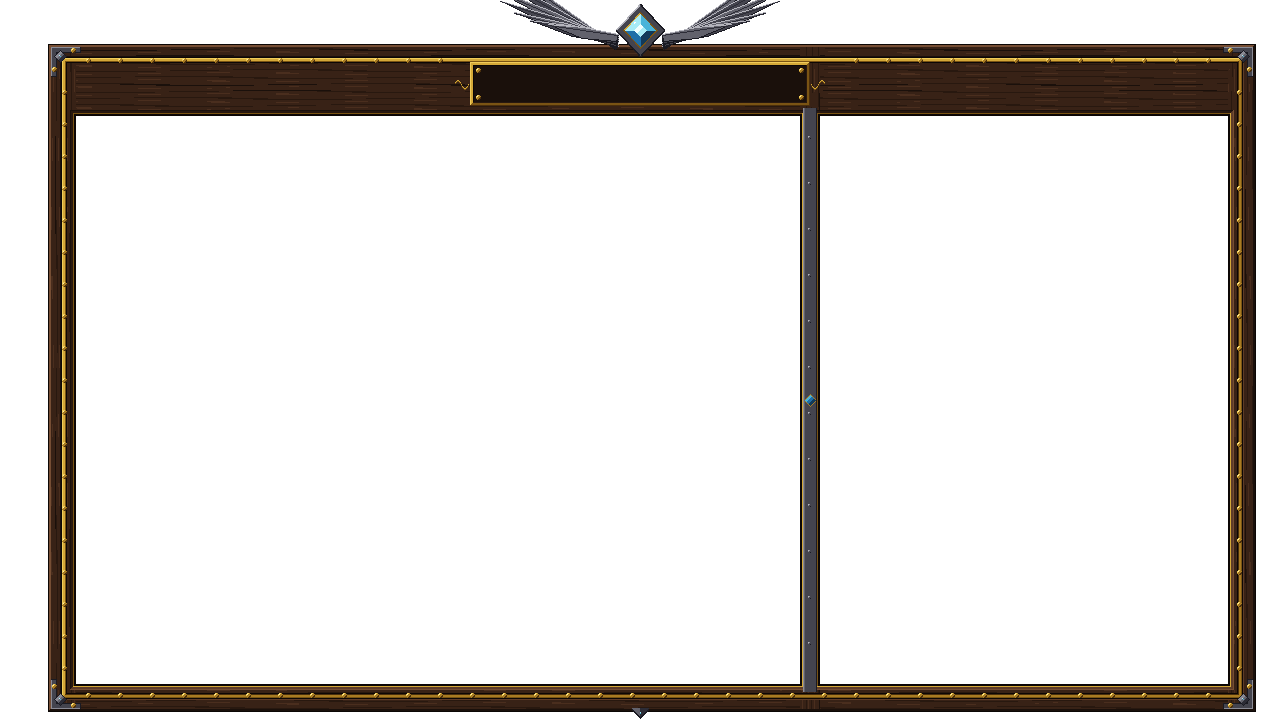
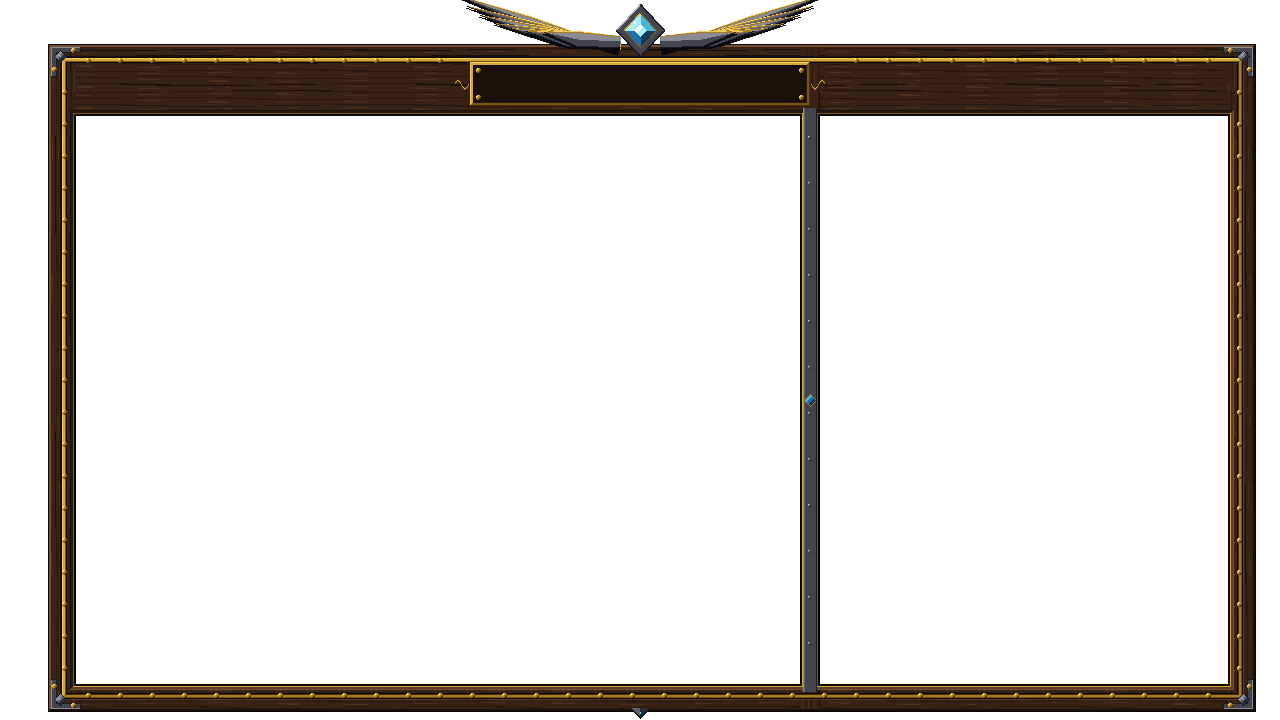
magic-art: grimoire v7 fixes (gold-edged feathered wings, readable locked nodes, legend)

Changed region(s): [[0.3438, 0.0, 0.6562, 0.0917]]

diff --git a/assets/magic-art/ui/Grimoire7.dc.html b/assets/magic-art/ui/Grimoire7.dc.html
@@ -66,7 +66,7 @@ body{margin:0}
 <img class="px ring" src="{{n.ring}}" alt="">
 <sc-if value="{{n.isOpen}}" hint-placeholder-val="{{ false }}"><img class="px ring glow" src="/_blob/a6eafa31c383f9d7d3e0c1fa86358705" alt=""></sc-if>
 <sc-if value="{{n.showIcon}}" hint-placeholder-val="{{ true }}"><img class="px ic" src="{{n.icon}}" alt="" style="{{n.iconStyle}}"></sc-if>
-<sc-if value="{{n.hidden}}" hint-placeholder-val="{{ false }}"><span style="position: absolute; left: 0; right: 0; top: 12px; text-align: center; font-size: 16px; color: #5a6278">?</span></sc-if>
+<sc-if value="{{n.hidden}}" hint-placeholder-val="{{ false }}"><span style="position: absolute; left: 0; right: 0; top: 12px; text-align: center; font-size: 16px; color: #8a96c0">?</span></sc-if>
 </span>
 <sc-if value="{{n.claim}}" hint-placeholder-val="{{ false }}"><span style="position: absolute; right: -6px; top: -6px; width: 20px; height: 20px; background: #b04a3a; color: #fff4e0; font-size: 16px; line-height: 20px; text-align: center; box-shadow: inset 0 0 0 2px #6a1c16, 0 0 0 2px #05060c">!</span></sc-if>
 <sc-if value="{{n.pinned}}" hint-placeholder-val="{{ false }}"><svg class="px" width="14" height="20" viewBox="0 0 7 10" aria-hidden="true" style="position: absolute; left: -2px; top: -12px"><rect x="1" y="0" width="5" height="4" fill="#49b4d9"></rect><rect x="2" y="1" width="2" height="1" fill="#f0ffff"></rect><rect x="3" y="4" width="1" height="6" fill="#a0a0aa"></rect></svg></sc-if>
@@ -79,6 +79,12 @@ body{margin:0}
 <span class="sh" style="{{n.labelStyle}}">{{n.label}}</span>
 </button>
 </sc-for>
+<div class="sh" style="position: absolute; left: 20px; bottom: 12px; display: flex; gap: 16px; font-size: 16px; line-height: 20px; color: #c8d0e0">
+<span style="display: flex; align-items: center; gap: 6px"><span style="width: 10px; height: 10px; background: #d4a838; box-shadow: 0 0 0 1px #05060c"></span>完了</span>
+<span style="display: flex; align-items: center; gap: 6px"><span style="width: 10px; height: 10px; background: #a8ecf6; box-shadow: 0 0 0 1px #05060c"></span>進められる</span>
+<span style="display: flex; align-items: center; gap: 6px"><span style="width: 10px; height: 10px; background: #b090e0; box-shadow: 0 0 0 1px #05060c"></span>寄り道</span>
+<span style="display: flex; align-items: center; gap: 6px"><span style="width: 10px; height: 10px; background: #6a6a76; box-shadow: 0 0 0 1px #05060c"></span>未解放</span>
+</div>
 </sc-if>
 <sc-if value="{{isBranch}}" hint-placeholder-val="{{ false }}">
 <div style="position: absolute; inset: 0; display: flex; flex-direction: column; align-items: center; justify-content: center; gap: 16px">
@@ -89,7 +95,7 @@ body{margin:0}
 </sc-if>
 </div>
 
-<img class="px" src="/_blob/119650d01a283dd485d01b93630d8410" alt="" width="1280" height="720" style="position: absolute; left: 0; top: 0; pointer-events: none">
+<img class="px" src="/_blob/718835e2b226b4a7cd261b3a0127ac51" alt="" width="1280" height="720" style="position: absolute; left: 0; top: 0; pointer-events: none">
 <div class="sh" style="position: absolute; left: 470px; top: 62px; width: 340px; height: 44px; display: flex; align-items: center; justify-content: center; gap: 14px; pointer-events: none">
 <span style="font-family: 'Jacquard 12', serif; font-size: 24px; line-height: 24px; color: #f0cc5a">Grimoire</span>
 <span style="font-size: 16px; color: #f4d870">魔術書</span>
@@ -167,7 +173,7 @@ book: B + '2c25c6074c9621ffcae05883a1f0f221', goggles: B + 'f59cd6e362f54112e1c7
 desk: B + 'a78cb39eac137046918875f67d0f331a', distiller: B + '1515a70cffd15352c0990cc1dbb012da', jar: B + 'b446653a8db7f64fdd66f4014f0b7ee6'
 };
 var H = { desk: B + '25e96ea39ca9477e064516353c8e34eb', distiller: B + 'c271094235f2920b7076173081b6957d', jar: B + '9b08ce57d64adede66326b2ed631dbf3' };
-var R = { done: B + '9ddba6f362b9c79722cdf78517ecfd8b', open: B + '332688f4d24600d143d97997c6c5f336', locked: B + '4bb7e29104edfd1ca793e8b4aee7c581', side: B + 'b499577d4442aa1b2ad1261ad5a524a6', goal: B + 'e0ce260706c6868edf716e93d6c26532', hidden: B + '0c42df9778ae7e57a1a96e2a9eec928e' };
+var R = { done: B + '9ddba6f362b9c79722cdf78517ecfd8b', open: B + '332688f4d24600d143d97997c6c5f336', locked: B + '6421f27f3a4158a20098184ee39aa2bc', side: B + 'b499577d4442aa1b2ad1261ad5a524a6', goal: B + 'e0ce260706c6868edf716e93d6c26532', hidden: B + 'b114c757642b137cf0c16c70550de07e' };
 var NEB = [B + '4b8bbd97cee550d4f7f55e0f9433d1db', B + 'f30528859d08f774426a1f16a5b7be56', B + '388b8ac78b04c647ad9530769d933b8e', B + 'e4d36a55d7ea7f8deebcd59f1a8151ae', B + 'a24b1d542e83b077362724bdaaf0864b', B + 'bb6d093377dd59a1f106803d1ee73588', B + '4afbf4858b5e8db406b3e0a2a8266932'];
 var N = [
 { id: 'n1', c: 0, r: 2, icon: I.book, big: false, title: '古い手帳', ch: '序章 観測', base: 'done', concept: '光る草に挟まっていた手帳。最初のページには一文だけ。「すべての物は、目に見えない性質（相）でできている」', goals: [['光る素材を拾う', 1]], unlocks: [['開く', '魔術書']], reward: '' },
@@ -184,7 +190,7 @@ var N = [
 { id: 'n12', c: 7, r: 2, icon: I.scroll, big: false, goal: true, title: '帰還の巻物', ch: '終章 最初の儀式', base: '', concept: '幹のゴール。遠征先から、魔術で帰ってくる。ここまで来ると専門の枝の封が解ける。', goals: [['小さな祭壇で帰還の巻物を作る', 0]], unlocks: [['開く', '専門の枝すべて']], reward: '' }
 ];
 var E = [['n1', 'n2'], ['n1', 'n3'], ['n2', 'n4'], ['n3', 'n4'], ['n4', 'n5'], ['n4', 'n6'], ['n5', 'n7'], ['n6', 'n7'], ['n6', 'n8'], ['n7', 'n9'], ['n7', 'n10'], ['n9', 'n11'], ['n10', 'n11'], ['n11', 'n12']];
-var OX = 36, OY = 10, SX = 86, SY = 116, S = 48;
+var OX = 36, OY = 4, SX = 86, SY = 118, S = 48;
 var self = this, st = this.state, byId = {};
 N.forEach(function (n) { n.x = OX + n.c * SX; n.y = OY + n.r * SY; n.parents = []; byId[n.id] = n; });
 E.forEach(function (e) { byId[e[1]].parents.push(e[0]); });
@@ -223,7 +229,7 @@ return {
 pos: 'left:' + n.x + 'px;top:' + n.y + 'px;', ring: R[n.st === 'goalOpen' ? 'open' : n.st], anim: anim, icon: n.icon,
 showIcon: n.st !== 'hidden', hidden: n.st === 'hidden', isOpen: n.st === 'open' || n.st === 'goalOpen' || n.st === 'side',
 claim: canClaim(n), pinned: st.pin === n.id && n.st !== 'done', sel: st.sel === n.id,
-iconStyle: (faded ? 'filter:grayscale(1) brightness(0.55);opacity:0.6;' : ''),
+iconStyle: (faded ? 'filter:grayscale(1) brightness(0.85);opacity:0.8;' : ''),
 label: showLabel ? n.title.replace('寄り道：', '') : '',
 labelStyle: 'position:absolute;left:-40px;right:-40px;top:52px;text-align:center;font-size:16px;line-height:20px;white-space:nowrap;color:' + (n.st === 'done' ? '#d8c8a0' : '#c8f0f8') + ';',
 aria: (n.st === 'hidden' ? 'まだ見えない項目' : n.title) + ' ' + LAB[n.st][0],

diff --git a/assets/magic-art/ui/grim7.py b/assets/magic-art/ui/grim7.py
@@ -164,22 +164,28 @@ CX, CYc = 640, 30
 for s in (-1, 1):
     for k in range(7):                                    # back feathers first (longest)
         k2 = 6 - k
-        L = 70 + k2 * 20
-        ang = math.radians(8 + k2 * 6)                   # fan upward a little
-        root = (CX + s * 22, CYc + 4 + k2 * 2)
-        tip = (root[0] + s * L * math.cos(ang), root[1] - L * math.sin(ang) + k2 * 6)
-        wid = 9 - k2 // 2
+        L = 76 + k2 * 18
+        ang = math.radians(3 + k2 * 4)
+        root = (CX + s * 20, CYc + 6 + k2 * 2)
+        tip = (root[0] + s * L * math.cos(ang), root[1] - L * math.sin(ang) + k2 * 5)
+        wid = 13 - k2
         nx, ny = -(tip[1] - root[1]), (tip[0] - root[0])
         nl = math.hypot(nx, ny); nx, ny = nx / nl, ny / nl
         if s < 0:
             nx, ny = -nx, -ny
-        mid = ((root[0] + tip[0]) / 2, (root[1] + tip[1]) / 2)
-        poly = [root, (mid[0] - nx * wid * 0.2, mid[1] - ny * wid * 0.2), tip,
-                (mid[0] + nx * wid, mid[1] + ny * wid), (root[0] + nx * wid * 0.8, root[1] + ny * wid * 0.8)]
-        fill = IRN[3] if k % 2 else IRN[4]
-        d.polygon(poly, fill=hx(fill), outline=hx(IRN[1]))
-        d.line([root, (mid[0] - nx * wid * 0.2, mid[1] - ny * wid * 0.2), tip], fill=hx(IRN[6]))
-        d.line([(root[0] + nx * 2, root[1] + ny * 2), (tip[0] + nx * 1, tip[1] + ny * 1)], fill=hx(IRN[2]))
+        q1 = (root[0] + (tip[0] - root[0]) * 0.55, root[1] + (tip[1] - root[1]) * 0.55)
+        poly = [root, (q1[0] - nx * 2, q1[1] - ny * 2), tip,
+                (q1[0] + nx * wid, q1[1] + ny * wid), (root[0] + nx * wid * 0.9, root[1] + ny * wid * 0.9)]
+        sh = [(x + nx * 2, y + ny * 2) for (x, y) in poly]
+        d.polygon(sh, fill=hx(IRN[0]))                    # dark backing so it reads on the night sky
+        d.polygon(poly, fill=hx(IRN[4] if k % 2 else IRN[5]))
+        # inner shade toward the lower edge, gold leading edge, dark outline
+        inner = [(q1[0] + nx * wid * 0.45, q1[1] + ny * wid * 0.45), tip, (q1[0] + nx * wid, q1[1] + ny * wid),
+                 (root[0] + nx * wid * 0.9, root[1] + ny * wid * 0.9), (root[0] + nx * wid * 0.45, root[1] + ny * wid * 0.45)]
+        d.polygon(inner, fill=hx(IRN[3]))
+        d.line([root, (q1[0] - nx * 2, q1[1] - ny * 2), tip], fill=hx(BRS[4]))
+        d.line([(root[0] + nx, root[1] + ny), (q1[0] - nx, q1[1] - ny), tip], fill=hx(BRS[2]))
+        d.line([tip, (q1[0] + nx * wid, q1[1] + ny * wid), (root[0] + nx * wid * 0.9, root[1] + ny * wid * 0.9)], fill=hx(IRN[1]))
 # gem setting + faceted gem
 for y in range(-26, 27):
     for x in range(-24, 25):
@@ -298,10 +304,10 @@ SILV = ['#1f4a6a', '#49b4d9', '#a8ecf6', '#f0ffff']
 mount('done', GOLD, ('#140f06', '#1e170a'), halo=('#d4a838', 90))
 mount('open', SILV, ('#06141e', '#0a2030'), halo=('#49b4d9', 130))
 mount('glow', ['#49b4d9', '#a8ecf6', '#f0ffff', '#ffffff'], None, halo=('#a8ecf6', 200), studs=False)
-mount('locked', ['#16161c', '#2a2a32', '#3c3c46', '#54545e'], ('#08080c', '#0c0c12'))
+mount('locked', ['#2a2a34', '#4a4a56', '#6a6a76', '#9a9aa6'], ('#121218', '#181820'))
 mount('side', ['#3a2460', '#7a5aa8', '#b090e0', '#e0d0ff'], ('#0e0818', '#140c22'), halo=('#8a6ab0', 110), dash=True)
 mount('goal', ['#5a1810', '#a03024', '#e07a60', '#ffc0a0'], ('#140606', '#1e0a0a'), halo=('#b04a3a', 120))
-mount('hidden', ['#14182a', '#20263c', '#2c3450', '#3a4466'], None, dash=True, studs=False)
+mount('hidden', ['#2a3048', '#3a4466', '#4c5880', '#6a78a0'], None, dash=True, studs=False)
 
 # =====================================================================  parchment page
 PW, PH = 408, 568
